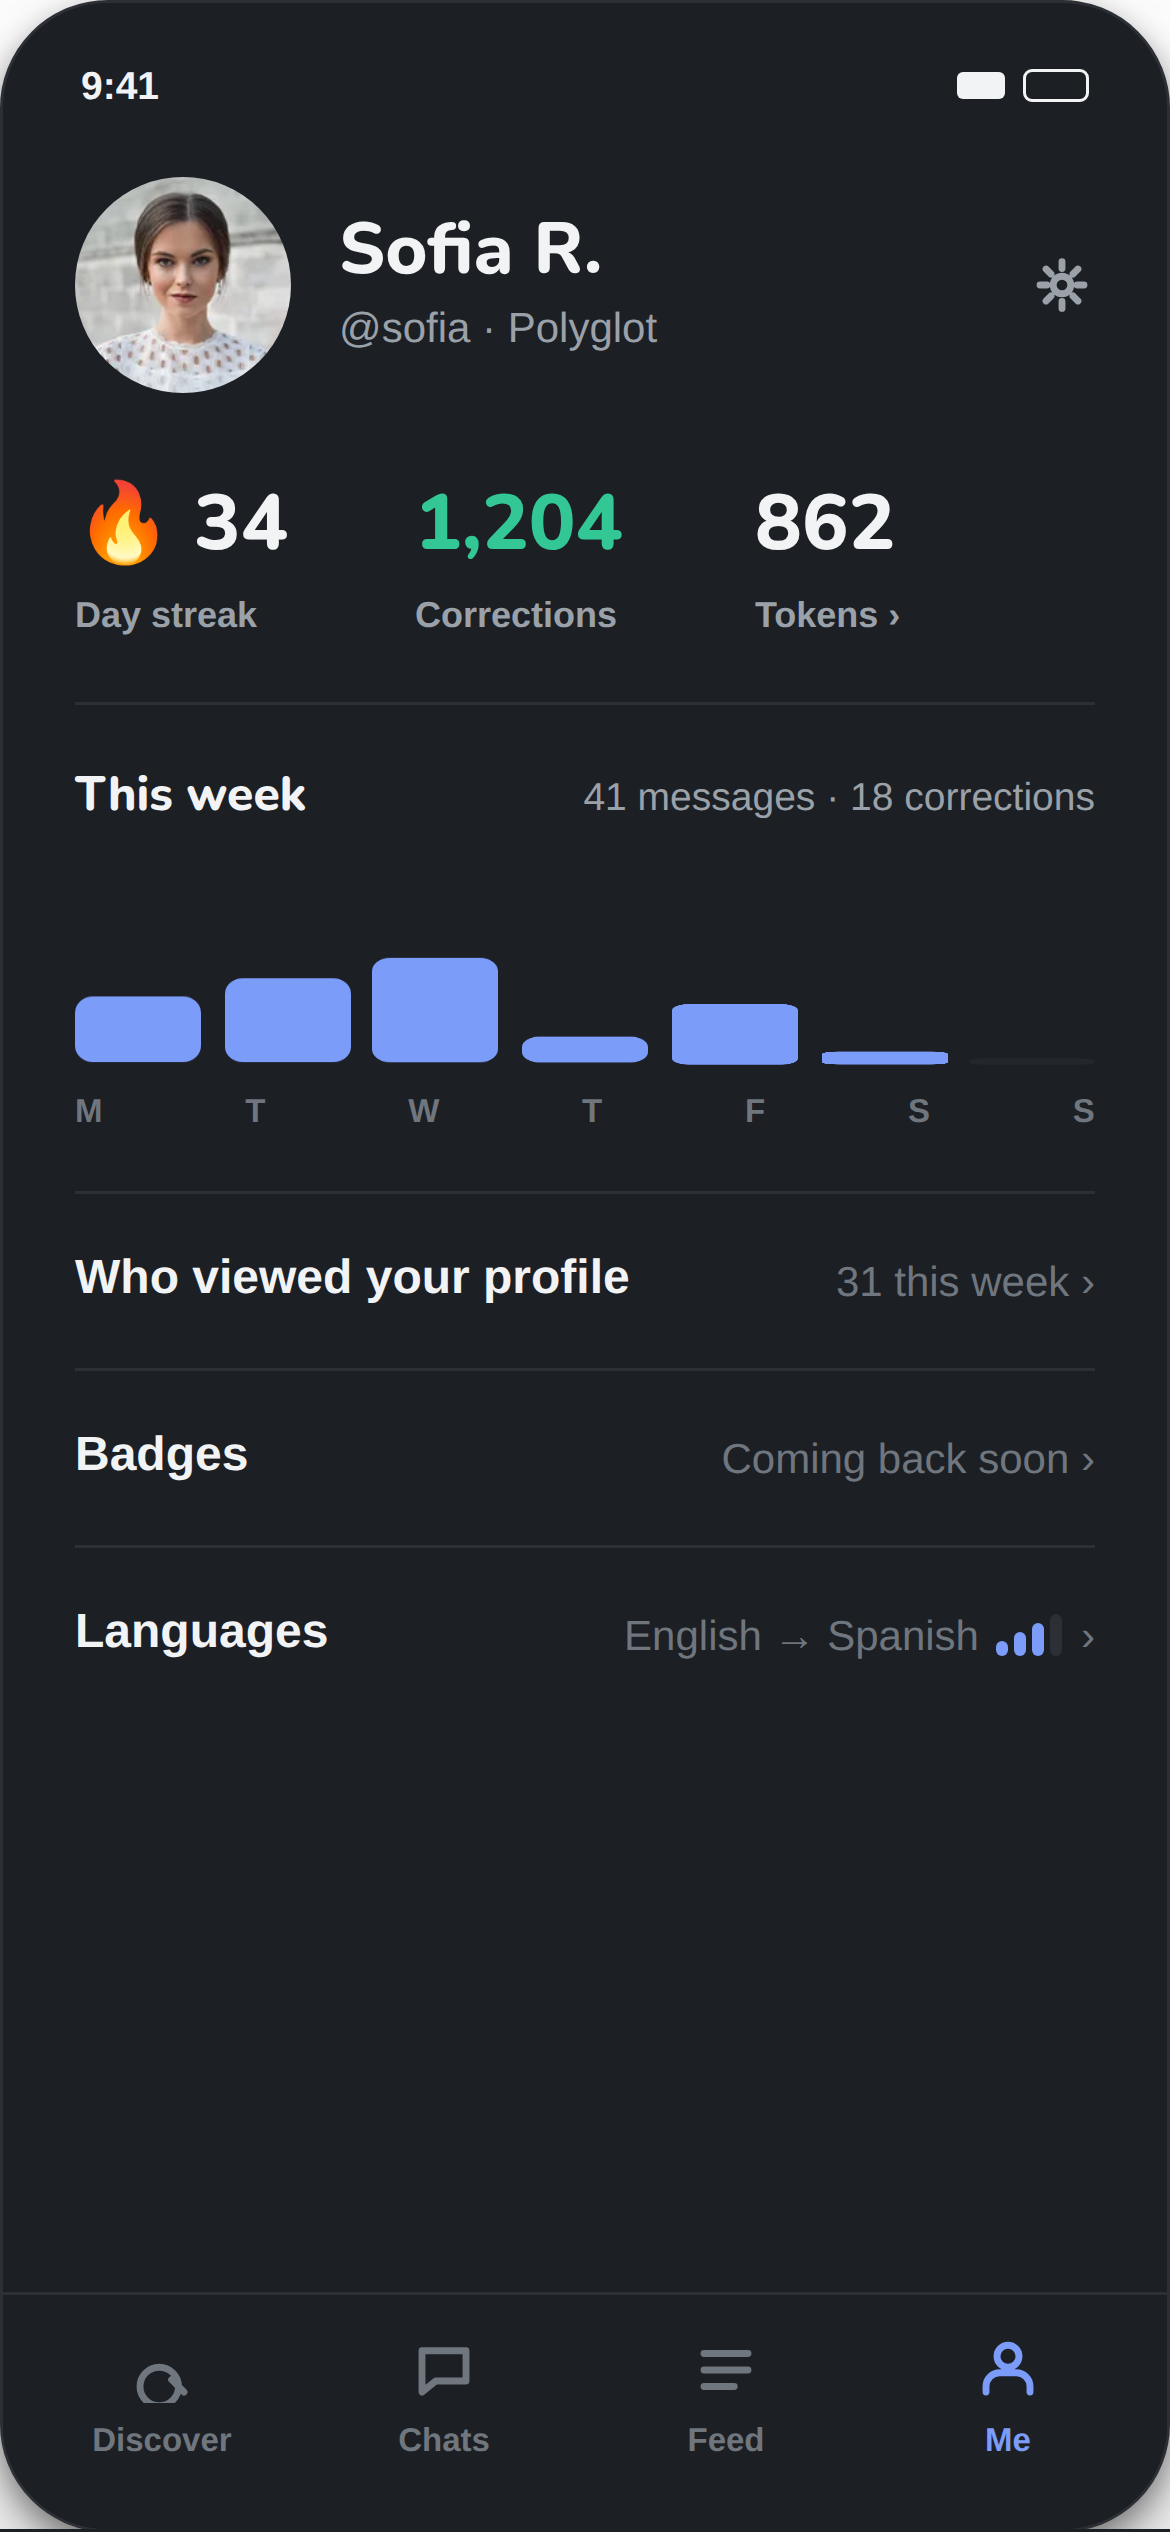
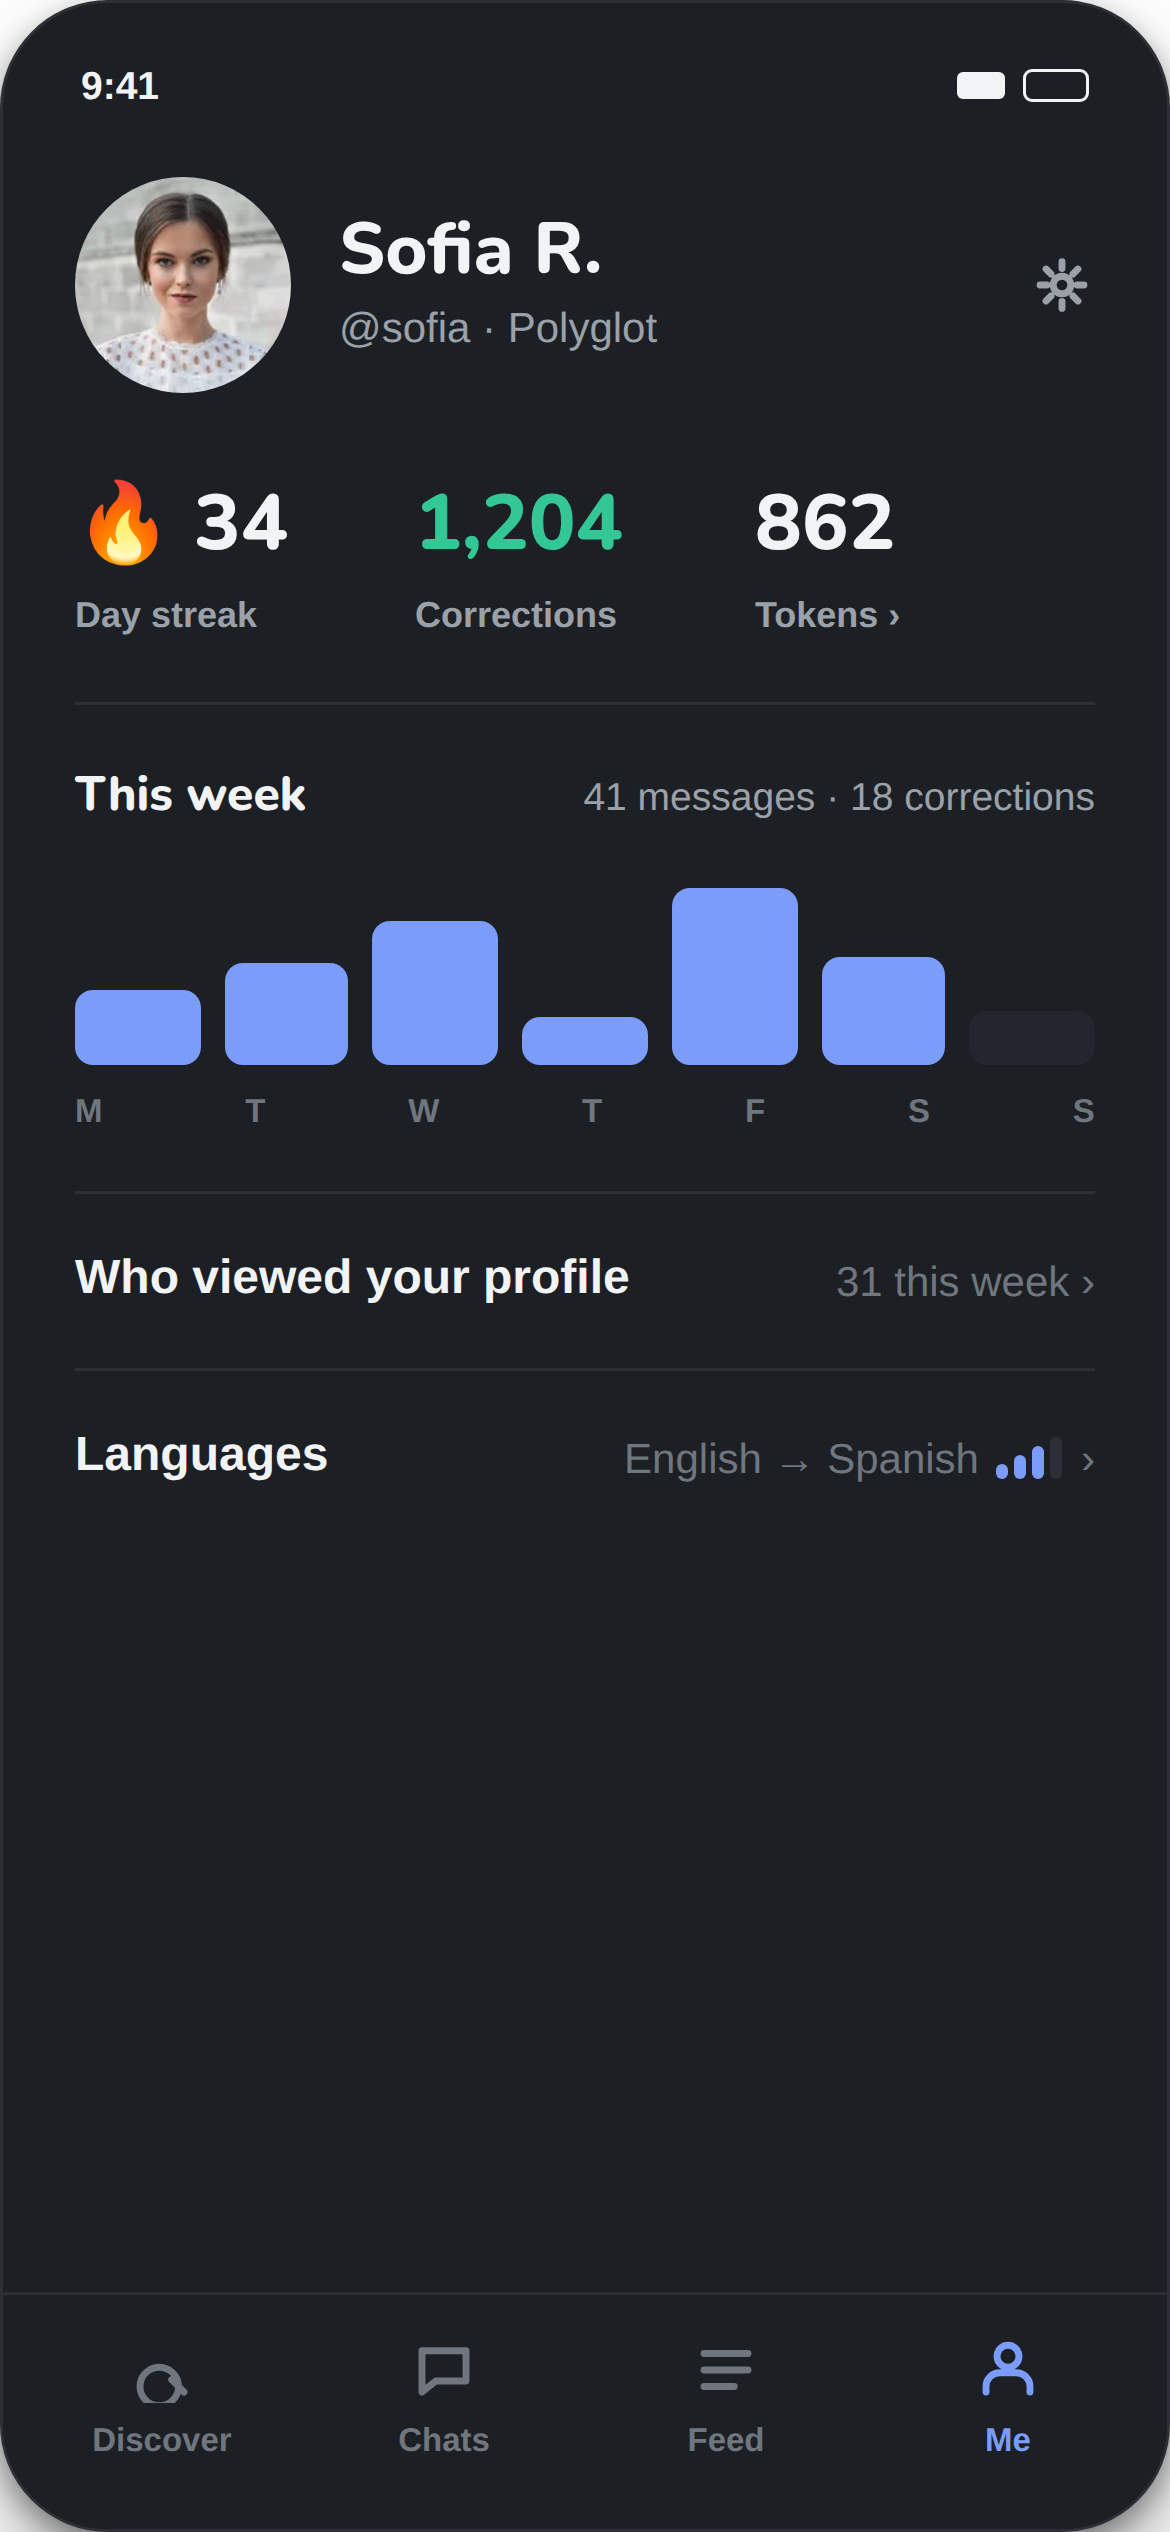
feat: upload-ready store artwork for 2.0
Six shots composed into every slot both stores ask for: iPhone 6.9 and 6.7,
iPad 13 and 12.9, Play phone, 7" and 10" tablet, plus the 1024×500 feature
graphic and the 512 icon. All 42 screenshots verified at their exact pixel
sizes.

The screen inside each one is rendered from langx.io's phone components, not
captured from a build. 2.0.x/README.md opens with that, because it is the one
thing an uploader has to know: it is the app's own markup at the app's own
sizes, and it is still a recreation. The composition survives shot-for-shot
replacement when real captures exist.

Three decisions are in the README rather than only in the pixels:

- The Me screen's "Badges — coming back soon" row is hidden in the render.
  Badges are not in 2.0's first release and a screenshot is not where to
  promise one; App Review 2.3.1 rules out "coming soon" content anyway.
- Shot 4 is the token screen, which states on its own face that tokens cannot
  be bought, traded or withdrawn — the answer to 3.1.5(b), left legible.
- The paywall shot shows what the plans include, never a price. Prices are per
  storefront and a number baked into a PNG is wrong in most of them.

Both iPhone sizes ship because Apple has moved that slot before; upload the one
App Store Connect asks for. The iPad set is not optional — app.config.ts sets
supportsTablet.

Claude-Session: https://claude.ai/code/session_012ZpebuvTporra5HKY2Kr9y

diff --git a/2.0.x/README.md b/2.0.x/README.md
@@ -1,88 +1,91 @@
-# 2.0.x — store screenshots
+# 2.0.x — store artwork
 
-**Status: the templates are here, the captures are not.** This folder holds the
-v3 composition at every size the stores ask for, with the screen area empty.
-Nothing in it is a picture of the app yet.
+Upload-ready sets for both stores, six shots each, in the v3 identity.
 
-Shooting the app needs the app running against an API, and the API needs a
-MongoDB replica set — Better Auth wraps writes in transactions, and a standalone
-`mongod` fails on the first sign-up. Screens shot without an account are empty
-states, which is not what a store listing is for. So the captures have to be
-taken where a real instance runs: `pnpm dev` in `langx/langx` against a local
-replica set, signed in, with the sample content in place.
+**Read this before you upload.** The screen inside every shot is rendered from
+the phone components on langx.io, not captured from a build on a device. It is
+the app's own markup at the app's own sizes, so it matches what a person sees —
+but it is a recreation, and both stores ask for the app in use. Treat these as
+the set to ship now and replace shot-for-shot as real captures are taken; the
+composition does not change when they are.
 
-## Sizes
+Nothing here came from an account: the content is demonstration data and the
+faces are AI-generated portraits (`../marketing/2.0/README.md`).
 
-| Path                | Size        | Store                       |
-| ------------------- | ----------- | --------------------------- |
-| `ios/6.7/`          | 1290 × 2796 | App Store, iPhone           |
-| `ios/12.9/`         | 2048 × 2732 | App Store, iPad             |
-| `android/phone/`    | 1440 × 3120 | Play                        |
-| `android/10tablet/` | 1600 × 2560 | Play, 10" tablet            |
+## App Store Connect
 
-Numbered `1.png`, `2.png`, … in the order they should appear. `0.1.x/` also has
-a `5.5/` folder; that size is only needed if the listing still carries an
-iPhone 8-era device.
+| Folder       | Size        | Slot                                    |
+| ------------ | ----------- | --------------------------------------- |
+| `ios/6.9/`   | 1320 × 2868 | iPhone 6.9" — the current iPhone slot   |
+| `ios/6.7/`   | 1290 × 2796 | iPhone 6.7" — what 0.15 was uploaded at |
+| `ios/13/`    | 2064 × 2752 | iPad 13"                                |
+| `ios/12.9/`  | 2048 × 2732 | iPad 12.9"                              |
 
-## The shot list
+Both iPhone sizes are here because Apple has changed which one it asks for
+before; upload whichever slot App Store Connect shows and ignore the other. The
+iPad set is not optional — `apps/mobile/app.config.ts` sets
+`ios.supportsTablet: true`, so the listing has an iPad tab to fill.
 
-Eight, the same count as 0.3.x. Every headline has to be a claim the listing
-also makes — `langx/docs/store/listing.md` is where the copy is decided, and a
-screenshot is a claim in exactly the way a sentence is.
+The 1024 × 1024 app icon is `../app-resources/v2/icons/default.png`, unchanged.
 
-| #   | Screen                       | Headline                        |
-| --- | ---------------------------- | ------------------------------- |
-| 1   | Discover                     | Matched both ways               |
-| 2   | Chat thread                  | Real conversations, not lessons |
-| 3   | The correction sheet         | Correct each other              |
-| 4   | A translated message         | Translation when you're stuck   |
-| 5   | Streak and tokens            | A reason to come back           |
-| 6   | Leaderboard                  | Weekly, monthly, all time       |
-| 7   | Profile                      | Say who you are                 |
-| 8   | Paywall                      | Free to use, always             |
+## Play Console
 
-Two things must not be in shot:
+| File                            | Size        | Slot                        |
+| ------------------------------- | ----------- | --------------------------- |
+| `android/phone/1..6.png`        | 1440 × 3120 | Phone screenshots           |
+| `android/7tablet/1..6.png`      | 1200 × 1920 | 7" tablet                   |
+| `android/10tablet/1..6.png`     | 1600 × 2560 | 10" tablet                  |
+| `android/feature-graphic.png`   | 1024 × 500  | Feature graphic             |
+| `android/icon-512.png`          | 512 × 512   | App icon                    |
 
-- **Badges.** They exist in v1, they are not in 2.0's first release, and the
-  listing is being corrected because of it. A screenshot claiming them is the
-  same false claim in a picture.
-- **Coin, chain or wallet iconography**, for the reason in
-  [`../BRAND.md`](../BRAND.md#iconography) — it is an App Review question,
-  not a stylistic one.
+The tablet folders are what stops Play marking the listing as phone-only. Both
+hold the same phone screens on a tablet-shaped canvas, which is what 0.3.x did
+too — there is no tablet layout to shoot.
 
-And nothing shot from a real account: names, photos and message text in these
-files are published to two stores and a public repo. Use seeded content.
+## The shots
 
-## Until the captures exist
+Every headline is a claim `langx/docs/store/listing.md` also makes. Same order
+in every folder.
 
-[`../marketing/2.0/`](../marketing/2.0/) holds the same seven screens rendered
-from the site's phone components — v3, light and dark, demonstration data. They
-are the nearest thing that exists today and they are right for press, social
-and decks. They are not right here: both stores ask for pictures of the app in
-use, and a faithful recreation is not that.
+| #   | Screen   | Headline                             |
+| --- | -------- | ------------------------------------ |
+| 1   | Discover | Matched both ways                    |
+| 2   | Chat     | Real conversations, not lessons      |
+| 3   | Feed     | Correct each other                   |
+| 4   | Tokens   | Earn tokens for talking and teaching |
+| 5   | Me       | A reason to come back                |
+| 6   | Paywall  | Free to use, always                  |
+
+Three things were decided rather than drawn, and they are the reason this list
+is six and not eight:
+
+- **No badges.** The Me screen carries a "Badges — coming back soon" row on the
+  site. Badges are not in 2.0's first release, and a screenshot is not the
+  place to promise one, so the row is hidden in the render. It is also why the
+  listing copy is being corrected.
+- **No coin, chain or wallet.** Shot 4 is the token screen, which states on its
+  own face that tokens cannot be bought, traded or withdrawn — that is the
+  answer to Guideline 3.1.5(b), and it should stay legible in the shot.
+- **No prices.** The paywall shot shows what each plan includes, not what it
+  costs: prices are per storefront and a number baked into a PNG goes wrong in
+  174 of them.
 
 ## The composition
 
-`template/` is the layout, rendered at each size. It is white ground, ink
-headline, one yellow rule, and the capture in a rounded stage — v3's own rules,
-which is the point: the listing should look like the app it sells.
+White ground, ink headline, one yellow rule, the screen below with its own
+device edge and a 8% drop shadow. Everything scales from the canvas height,
+`u = height / 2796`:
 
-Everything scales from the canvas width, `u = width / 1290`:
+| Element      | Value                                                           |
+| ------------ | ---------------------------------------------------------------- |
+| Ground       | `#ffffff`                                                        |
+| Headline     | Nunito ExtraBold 104·u / 1.06, `-0.025em`, `#17191c`, 150·u down |
+| Support line | Nunito Bold 46·u / 1.35, `#62676d`, 36·u below                   |
+| Rule         | 96·u × 10·u pill, `#ffc409`, 48·u below                          |
+| Screen       | 96·u below the rule, fills the rest, 1170 × 2532 aspect          |
 
-| Element        | Value                                                             |
-| -------------- | ----------------------------------------------------------------- |
-| Ground         | `#ffffff`                                                         |
-| Headline       | Nunito ExtraBold 104·u, line-height 1.06, `-0.025em`, `#17191c`   |
-|                | 150·u from the top, wrapping at 1010·u                            |
-| Support line   | Nunito Bold 46·u, line-height 1.35, `#62676d`, 36·u below         |
-| Rule           | 96·u × 10·u pill, `#ffc409`, 48·u below                           |
-| Stage          | 72% of the canvas wide, 96·u below the rule                       |
-|                | radius 56·u, `#f4f5f7`, 2·u `#e8eaec` border                      |
-|                | shadow `0 4·u 10·u rgba(0, 0, 0, 0.06)`                           |
+`template/` is that composition rendered empty at four sizes, for a shot the
+list above does not cover.
 
-The capture goes inside the stage, clipped to the same radius. Drop the
-placeholder text; keep the border, which is what separates a white screen from
-the white ground behind it.
-
-The yellow rule is the one piece of yellow in the composition. That is the app's
-rule — yellow appears once per screen — and it holds here.
+The yellow rule is the one piece of yellow in the composition — the app's own
+rule, holding here.

diff --git a/README.md b/README.md
@@ -20,7 +20,7 @@ per screen, no card layer.
 | [`BRAND.md`](BRAND.md)      | the v3 identity, written down                                    |
 | `app-resources/v2/`         | the icons and splash badges the app ships today, byte-identical  |
 | `app-resources/v2/brand/`   | the rounded mark and the horizontal lockup, light and dark       |
-| `2.0.x/`                    | store screenshots — the v3 template is there, the captures are not yet |
+| `2.0.x/`                    | store artwork for 2.0 — six shots at every App Store and Play size, the feature graphic and the icons |
 | `marketing/2.0/`            | seven v3 app screens, light and dark, rendered from the site's phone components |
 | `assets/rounded/logo.png`   | the same file as `app-resources/v2/brand/logo-rounded.png`, kept at its old path so existing links hold |
 | `assets/icon/`              | the favicon set — exported for v1's web build, still correct because the mark did not change |

diff --git a/marketing/2.0/README.md b/marketing/2.0/README.md
@@ -12,9 +12,10 @@ sizes. That is what makes them press-safe and what limits them:
   and numbers are demonstration data, and the six faces are AI-generated
   portraits — none of those people exist (`static/images/people/README.md` in
   that repo says where they came from).
-- **Not store screenshots.** Both stores ask for pictures of the app in use.
-  Use these for press, social, the site and decks; shoot
-  [`../../2.0.x/`](../../2.0.x/) from a real build.
+- **Not captures.** Both stores ask for pictures of the app in use, and a
+  recreation is not that. [`../../2.0.x/`](../../2.0.x/) composes these same
+  screens into the store sizes and says so on its own first page; replace them
+  shot for shot as real captures are taken.
 
 They also drift the same way everything else in this repo does: the site's
 components are maintained, these PNGs are not. Re-render them when the app's
